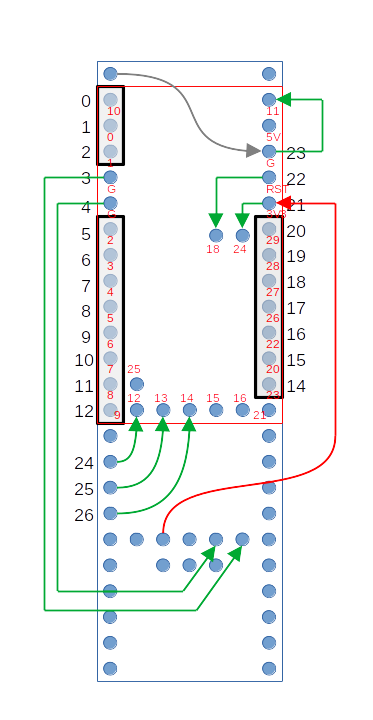
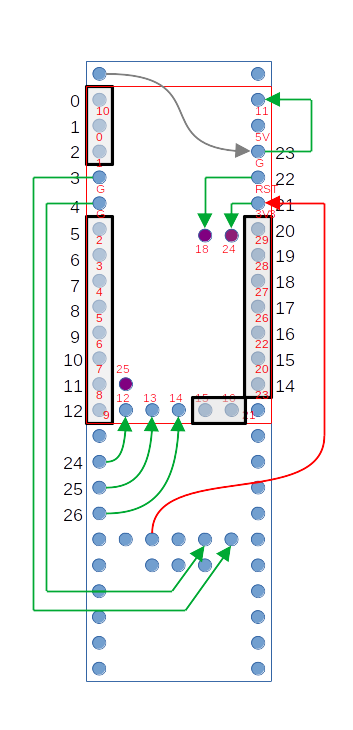
Fixed image and instructions

Changed region(s): [[0.0935, 0.0611, 0.9348, 0.9472]]

diff --git a/README.md b/README.md
@@ -16,8 +16,9 @@ Follow the instructions on the original [KinT Controller Repository](https://git
 
 1. The original Teensy outline is shown in blue, with the original Teensy labels in black.
 2. The RP2040 is shown in red with the new GPIO pins also in red.
-3. The only header pins that will map correctly are the ones enclosed in the black borders. So you will need to break up your headers into 4 pieces. 3-pin and 8-pin on the left, 2-pin across, and a 7-pin on the right. The rest are floating and must not be connected to the PCB.
-4. The arrows are the additional wires needed. All of them route FROM the PCB TO the RP2040 board. 
+3. The blue pins are ones where the PCB had existing holes. The purple ones are only on the RP2040 board. Also, Pin 25 is not used.
+4. The only header pins that will map correctly are the ones enclosed in the black borders. So you will need to break up your headers into 4 pieces. 3-pin and 8-pin on the left, 2-pin across, and a 7-pin on the right. The rest are floating and must not be connected to the PCB.
+5. The arrows are the additional wires needed. All of them route FROM the PCB TO the RP2040 board. 
 
 ![BoardDiagram](KinT_to_RP2040_Wiring_2.png)
 
